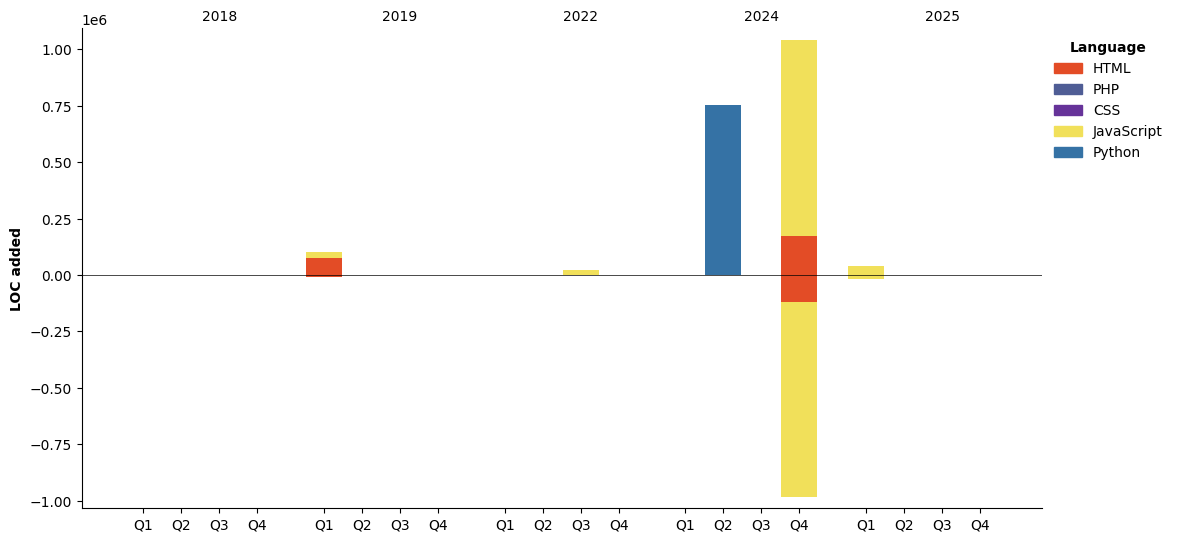
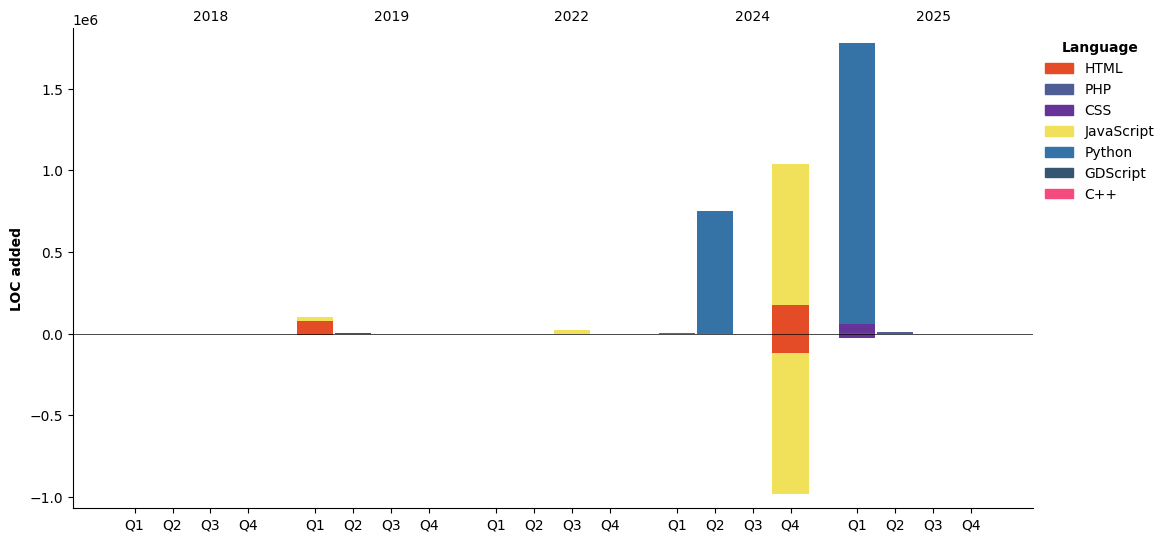
Updated with Dev Metrics

diff --git a/README.md b/README.md
@@ -61,8 +61,6 @@ Here are some ideas to get you started:
   ##
 
 <!--START_SECTION:waka-->
-![Code Time](http://img.shields.io/badge/Code%20Time-74%20hrs%2017%20mins-blue)
-
 ![Profile Views](http://img.shields.io/badge/Profile%20Views-85-blue)
 
 ![Lines of code](https://img.shields.io/badge/From%20Hello%20World%20I%27ve%20Written-3.7%20million%20lines%20of%20code-blue)
@@ -71,7 +69,7 @@ Here are some ideas to get you started:
 
 > 📦 164.9 kB Used in GitHub's Storage 
  > 
-> 🏆 780 Contributions in the Year 2025
+> 🏆 782 Contributions in the Year 2025
  > 
 > 💼 Opted to Hire
  > 
@@ -79,48 +77,12 @@ Here are some ideas to get you started:
  > 
 > 🔑 21 Private Repositories 
  > 
-**I'm an Early 🐤** 
+**Timeline**
 
-```text
-🌞 Morning                75 commits          ██░░░░░░░░░░░░░░░░░░░░░░░   07.09 % 
-🌆 Daytime                534 commits         █████████████░░░░░░░░░░░░   50.47 % 
-🌃 Evening                403 commits         ██████████░░░░░░░░░░░░░░░   38.09 % 
-🌙 Night                  46 commits          █░░░░░░░░░░░░░░░░░░░░░░░░   04.35 % 
-```
-📅 **I'm Most Productive on Friday** 
-
-```text
-Monday                   60 commits          █░░░░░░░░░░░░░░░░░░░░░░░░   05.67 % 
-Tuesday                  31 commits          █░░░░░░░░░░░░░░░░░░░░░░░░   02.93 % 
-Wednesday                131 commits         ███░░░░░░░░░░░░░░░░░░░░░░   12.38 % 
-Thursday                 215 commits         █████░░░░░░░░░░░░░░░░░░░░   20.32 % 
-Friday                   445 commits         ███████████░░░░░░░░░░░░░░   42.06 % 
-Saturday                 96 commits          ██░░░░░░░░░░░░░░░░░░░░░░░   09.07 % 
-Sunday                   80 commits          ██░░░░░░░░░░░░░░░░░░░░░░░   07.56 % 
-```
+![Lines of Code chart](https://raw.githubusercontent.com/mariaritacasagrande/mariaritacasagrande/main/assets/bar_graph.png)
 
 
-📊 **This Week I Spent My Time On** 
-
-```text
-🕑 Time Zone: America/Sao_Paulo
-
-💬 Programming Languages: 
-PHP                      4 hrs 9 mins        ███████████████████████░░   90.09 % 
-SQL                      17 mins             ██░░░░░░░░░░░░░░░░░░░░░░░   06.32 % 
-Markdown                 9 mins              █░░░░░░░░░░░░░░░░░░░░░░░░   03.46 % 
-Git Config               0 secs              ░░░░░░░░░░░░░░░░░░░░░░░░░   00.07 % 
-Other                    0 secs              ░░░░░░░░░░░░░░░░░░░░░░░░░   00.06 % 
-
-🔥 Editors: 
-VS Code                  4 hrs 36 mins       █████████████████████████   100.00 % 
-
-💻 Operating System: 
-Windows                  4 hrs 36 mins       █████████████████████████   100.00 % 
-```
-
-
- Last Updated on 22/05/2025 00:43:07 UTC
+ Last Updated on 22/05/2025 00:51:10 UTC
 <!--END_SECTION:waka-->
   
  <!--  <picture>
